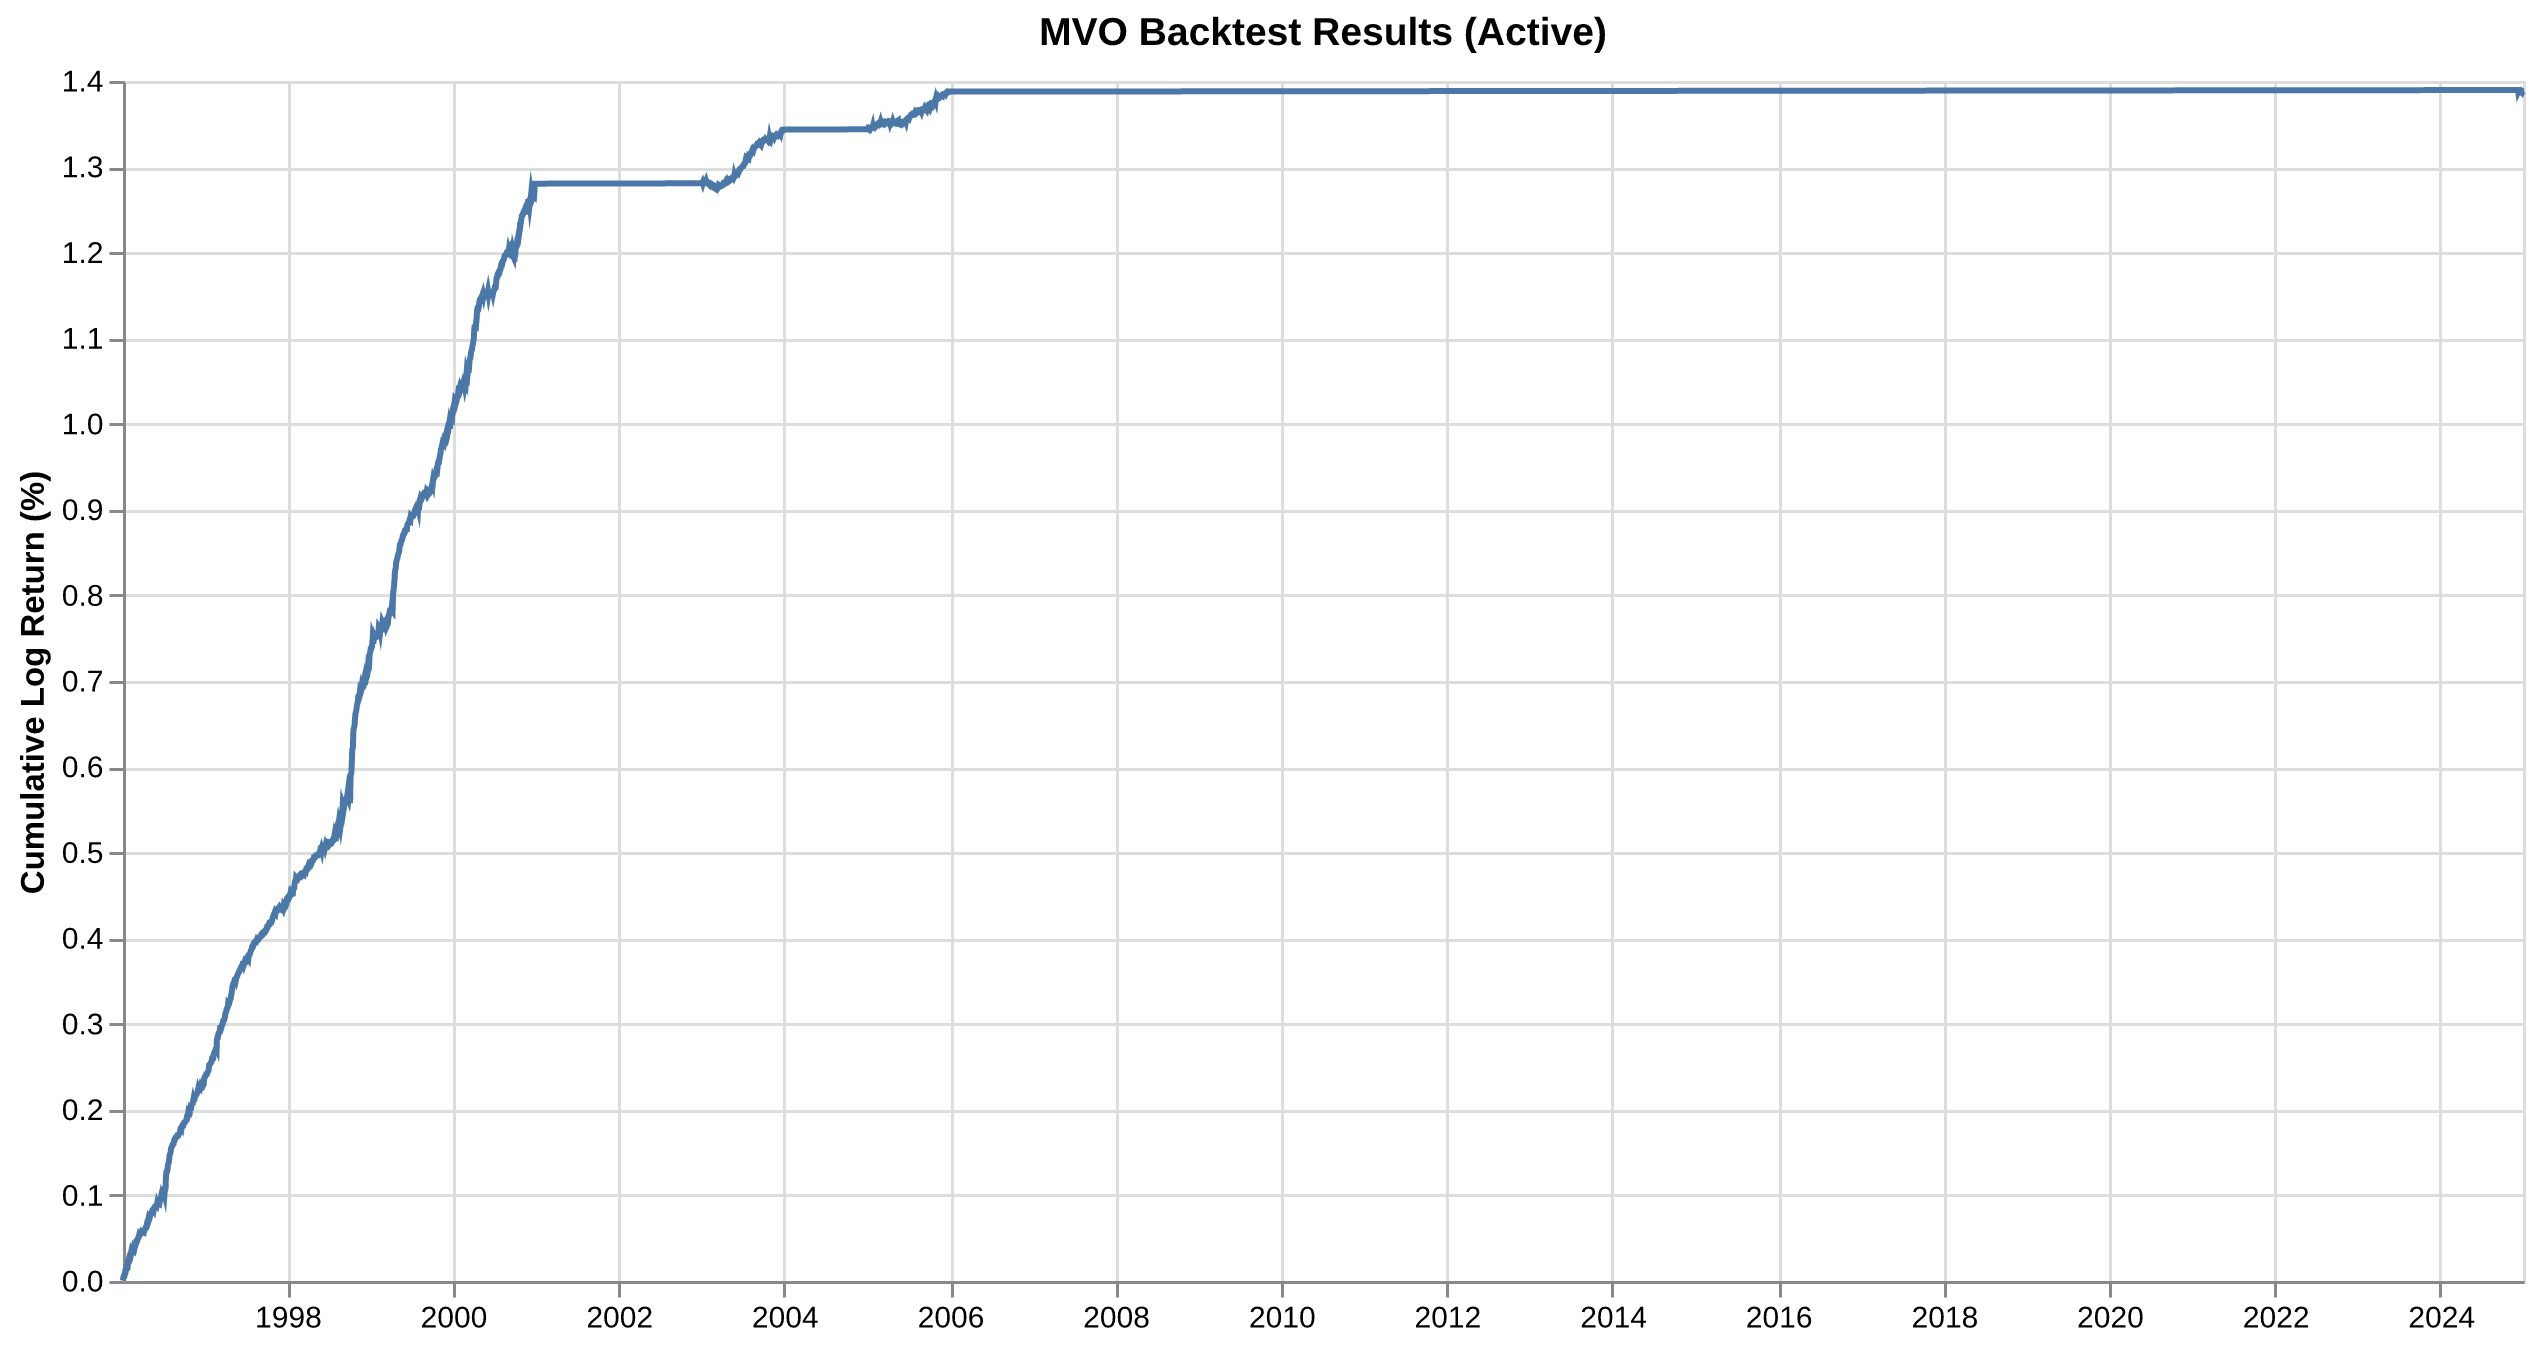
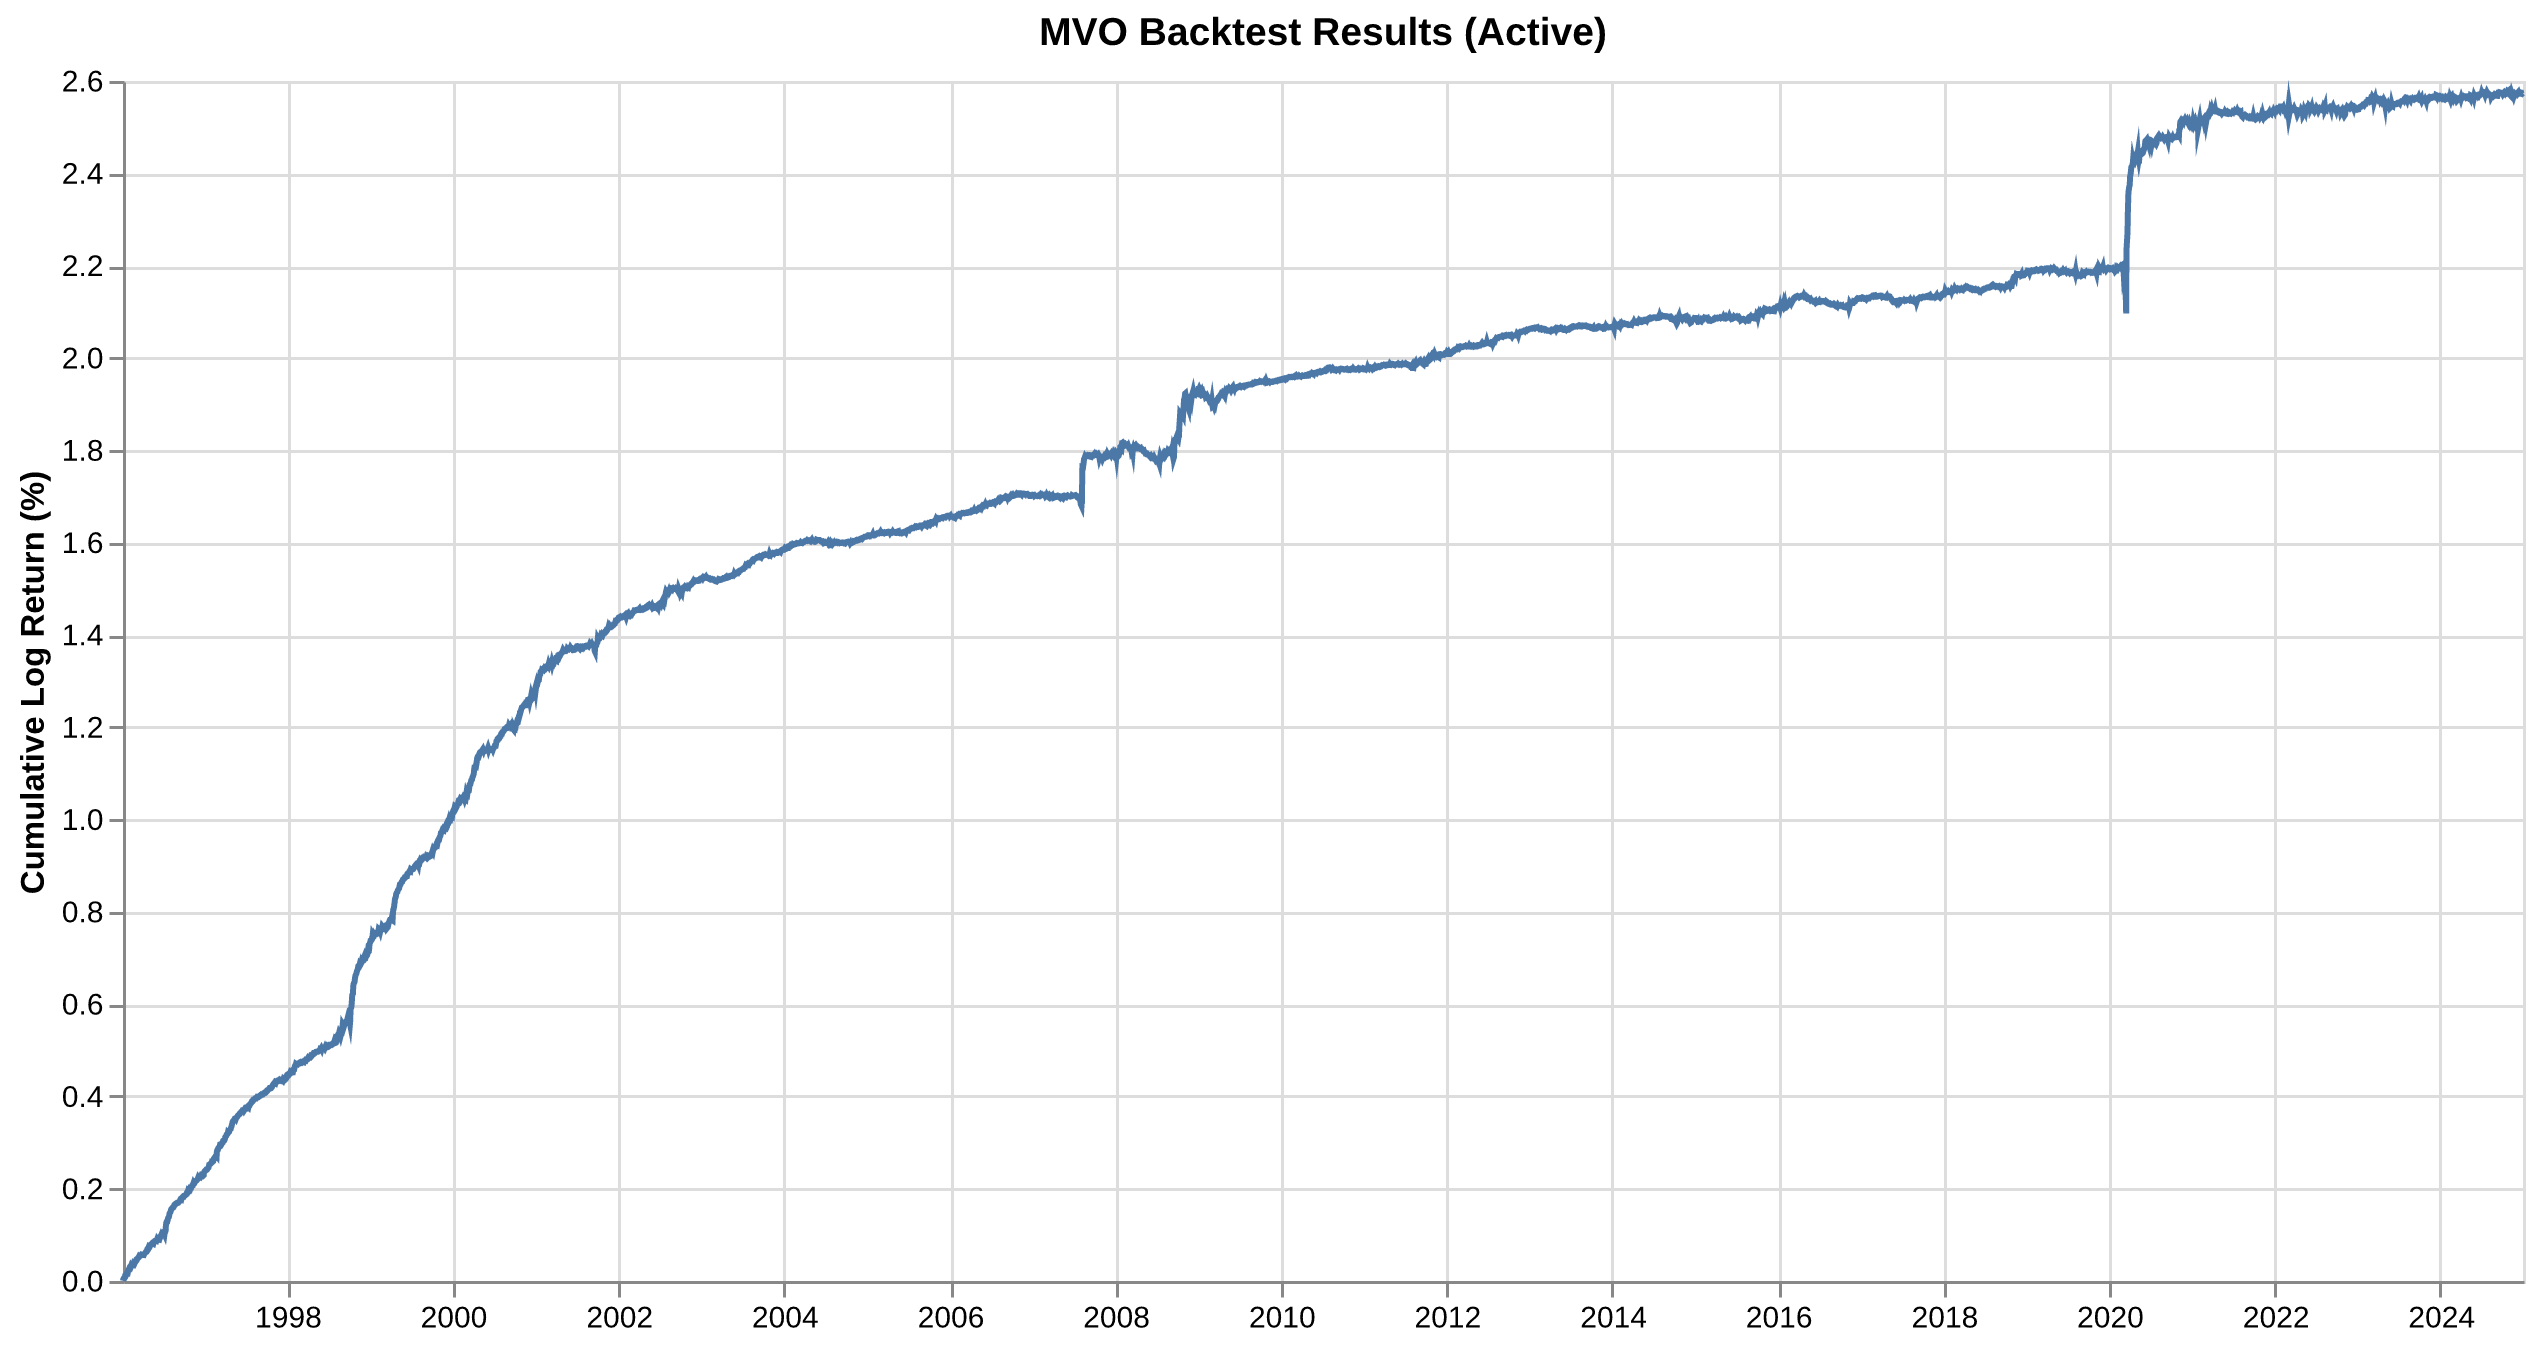
Working backteset utilities.

diff --git a/research/utils/backtest.py b/research/utils/backtest.py
@@ -39,39 +39,39 @@ def run_backtest_parallel(
 
     # Format sbatch_script
     sbatch_script = f"""#!/bin/bash
-    #SBATCH --job-name=reversal_backtest
-    #SBATCH --output=logs/{signal_name}/{gamma}/backtest_%A_%a.out
-    #SBATCH --error=logs/{signal_name}/{gamma}/backtest_%A_%a.err
-    #SBATCH --array=0-{num_years - 1}%31
-    #SBATCH --cpus-per-task={n_cpus}
-    #SBATCH --mem=32G
-    #SBATCH --time=06:00:00
-    #SBATCH --mail-user={byu_email}
-    #SBATCH --mail-type=BEGIN,END,FAIL
+#SBATCH --job-name=reversal_backtest
+#SBATCH --output=logs/{signal_name}/{gamma}/backtest_%A_%a.out
+#SBATCH --error=logs/{signal_name}/{gamma}/backtest_%A_%a.err
+#SBATCH --array=0-{num_years - 1}%31
+#SBATCH --cpus-per-task={n_cpus}
+#SBATCH --mem=32G
+#SBATCH --time=06:00:00
+#SBATCH --mail-user={byu_email}
+#SBATCH --mail-type=BEGIN,END,FAIL
 
-    export RAY_ACCEL_ENV_VAR_OVERRIDE_ON_ZERO=0
+export RAY_ACCEL_ENV_VAR_OVERRIDE_ON_ZERO=0
 
-    DATA_PATH="{data_path}"
-    OUTPUT_DIR="{output_dir}"
-    GAMMA="{gamma}"
-    N_CPUS="{n_cpus}"
-    CONSTRAINTS="{constraints_str}"
+DATA_PATH="{data_path}"
+OUTPUT_DIR="{output_dir}"
+GAMMA="{gamma}"
+N_CPUS="{n_cpus}"
+CONSTRAINTS="{constraints_str}"
 
-    # Years to process
-    years=({years_str})
+# Years to process
+years=({years_str})
 
-    num_years=${{#years[@]}}
+num_years=${{#years[@]}}
 
-    if [ $SLURM_ARRAY_TASK_ID -ge $num_years ]; then
-    echo "Task ID $SLURM_ARRAY_TASK_ID is out of range (max $((num_years-1)))."
-    exit 1
-    fi
+if [ $SLURM_ARRAY_TASK_ID -ge $num_years ]; then
+echo "Task ID $SLURM_ARRAY_TASK_ID is out of range (max $((num_years-1)))."
+exit 1
+fi
 
-    year=${{years[$SLURM_ARRAY_TASK_ID]}}
+year=${{years[$SLURM_ARRAY_TASK_ID]}}
 
-    source {project_root}/.venv/bin/activate
-    echo "Running year=$year"
-    srun python research/utils/mvo.py --data_path "$DATA_PATH" --gamma "$GAMMA" --year "$year" --output_dir "$OUTPUT_DIR" --n_cpus "$N_CPUS" --constraints $CONSTRAINTS
+source {project_root}/.venv/bin/activate
+echo "Running year=$year"
+srun python research/utils/mvo.py --data_path "$DATA_PATH" --gamma "$GAMMA" --year "$year" --output_dir "$OUTPUT_DIR" --n_cpus "$N_CPUS" --constraints $CONSTRAINTS
     """
 
     # Write the script to a temporary file and submit it

diff --git a/research/experiments/experiment_3a.py b/research/experiments/experiment_3a.py
@@ -18,7 +18,7 @@ end = dt.date(2024, 12, 31)
 price_filter = 5
 signal_name = "barra_reversal"
 IC = 0.05
-gamma = 400
+gamma = 10
 n_cpus = 8
 constraints = ["ZeroBeta", "ZeroInvestment"]
 
